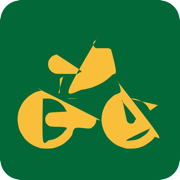
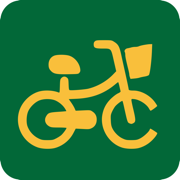
fix: logotip vectorial perfecte amb corbes de Bézier netes i sense artefactes

diff --git a/index.html b/index.html
@@ -38,7 +38,7 @@
   <!-- Custom CSS -->
   <link rel="manifest" href="manifest.json">
   <meta name="theme-color" content="#026838">
-  <link rel="stylesheet" href="style.css?v=16">
+  <link rel="stylesheet" href="style.css?v=17">
 </head>
 <body>
 
@@ -46,29 +46,22 @@
   <div id="splash-screen" class="splash-screen" aria-hidden="true">
     <div class="splash-content">
       <svg class="splash-logo-svg" viewBox="0 0 1024 409" width="1024" height="409">
-        <!-- Letters 'Gir' (slides in from bike to left) -->
+        <g fill="#F9BF3B" stroke="none">
         <g id="splash-gir" class="splash-anim-gir">
-          <path d="M 251.00 164.55 C 250.86 164.62, 250.35 164.26, 250.17 165.00 C 250.00 165.74, 249.97 165.33, 249.95 169.00 C 249.93 172.67, 249.73 183.89, 250.07 187.00 C 250.41 190.11, 247.84 187.54, 252.00 187.66 C 256.16 187.77, 270.76 187.78, 275.00 187.67 C 279.24 187.56, 277.11 190.83, 277.45 187.00 C 277.78 183.17, 281.41 168.44, 277.00 164.70 C 272.59 160.96, 255.33 164.57, 251.00 164.55 C 246.67 164.52, 251.14 164.47, 251.00 164.55 Z M 180.00 167.95 C 178.00 168.25, 171.33 168.99, 168.00 169.75 C 164.67 170.51, 162.33 171.54, 160.00 172.50 C 157.67 173.46, 156.50 174.01, 154.00 175.54 C 151.50 177.06, 148.06 179.05, 145.00 181.62 C 141.94 184.20, 138.35 187.60, 135.65 191.00 C 132.96 194.40, 130.68 198.17, 128.83 202.00 C 126.98 205.83, 125.57 210.33, 124.56 214.00 C 123.54 217.67, 123.05 220.67, 122.74 224.00 C 122.44 227.33, 122.56 231.00, 122.72 234.00 C 122.88 237.00, 122.92 238.50, 123.71 242.00 C 124.50 245.50, 125.92 251.17, 127.44 255.00 C 128.95 258.83, 131.18 262.33, 132.82 265.00 C 134.46 267.67, 134.74 268.44, 137.27 271.00 C 139.80 273.56, 144.87 278.05, 148.00 280.39 C 151.13 282.72, 152.72 283.50, 156.05 285.00 C 159.38 286.50, 163.34 288.34, 168.00 289.40 C 172.66 290.47, 178.83 291.23, 184.00 291.37 C 189.17 291.51, 194.67 290.90, 199.00 290.24 C 203.33 289.58, 206.50 288.56, 210.00 287.39 C 213.50 286.22, 216.50 285.00, 220.00 283.20 C 223.50 281.41, 228.27 278.49, 231.00 276.62 C 233.73 274.76, 235.50 281.27, 236.38 272.00 C 237.27 262.73, 236.73 229.62, 236.34 221.00 C 235.94 212.38, 242.56 220.36, 234.00 220.29 C 225.44 220.21, 193.25 220.42, 185.00 220.54 C 176.75 220.66, 184.50 217.26, 184.48 221.00 C 184.46 224.74, 180.63 239.30, 184.88 243.00 C 189.13 246.70, 205.66 243.05, 210.00 243.22 C 214.34 243.39, 210.77 241.37, 210.92 244.00 C 211.08 246.63, 211.08 256.21, 210.92 259.00 C 210.77 261.79, 210.51 260.24, 210.00 260.74 C 209.49 261.24, 209.53 261.22, 207.87 262.00 C 206.20 262.78, 202.81 264.54, 200.00 265.39 C 197.19 266.23, 193.67 266.78, 191.00 267.07 C 188.33 267.36, 185.83 283.66, 184.00 267.14 C 182.17 250.62, 180.67 184.48, 180.00 167.95 C 179.33 151.42, 182.00 167.65, 180.00 167.95 Z M 177.05 193.00 C 178.71 192.85, 183.68 192.01, 187.00 192.12 C 190.32 192.23, 194.00 192.87, 197.00 193.64 C 200.00 194.41, 202.00 195.05, 205.00 196.73 C 208.00 198.40, 213.06 202.65, 215.00 203.70 C 216.94 204.74, 214.90 204.95, 216.67 203.00 C 218.43 201.05, 232.19 193.67, 225.59 192.00 C 218.99 190.33, 185.14 192.83, 177.05 193.00 C 168.96 193.17, 175.40 193.15, 177.05 193.00 Z M 343.00 195.95 C 341.83 196.12, 338.49 196.11, 336.00 196.95 C 333.51 197.79, 330.18 199.49, 328.05 201.00 C 325.92 202.51, 324.88 203.84, 323.21 206.00 C 321.53 208.16, 314.70 215.63, 318.00 213.95 C 321.30 212.27, 338.83 198.95, 343.00 195.95 C 347.17 192.95, 344.17 195.78, 343.00 195.95 Z M 251.00 197.91 C 250.94 212.92, 250.45 272.78, 250.61 288.00 C 250.78 303.22, 247.77 289.01, 252.00 289.20 C 256.23 289.38, 271.87 289.30, 276.00 289.10 C 280.13 288.90, 276.65 303.02, 276.78 288.00 C 276.92 272.98, 276.94 214.06, 276.81 199.00 C 276.68 183.94, 280.30 197.81, 276.00 197.63 C 271.70 197.44, 255.17 197.86, 251.00 197.91 C 246.83 197.95, 251.06 182.89, 251.00 197.91 Z M 292.00 197.81 C 291.91 212.84, 291.31 272.78, 291.47 288.00 C 291.64 303.22, 288.81 288.97, 293.00 289.14 C 297.19 289.31, 312.51 289.19, 316.62 289.00 C 320.73 288.81, 317.47 294.00, 317.64 288.00 C 317.81 282.00, 317.28 261.00, 317.62 253.00 C 317.96 245.00, 318.80 243.24, 319.70 240.00 C 320.59 236.76, 321.62 235.49, 323.00 233.55 C 324.38 231.60, 326.00 229.84, 328.00 228.35 C 330.00 226.86, 331.95 225.50, 335.00 224.61 C 338.05 223.72, 344.38 227.60, 346.32 223.00 C 348.26 218.40, 355.69 201.20, 346.64 197.00 C 337.59 192.80, 301.11 197.67, 292.00 197.81 C 282.89 197.94, 292.09 182.77, 292.00 197.81 Z" fill="#F9BF3B" fill-rule="evenodd"/>
+          <path d="M 250.00 176.50 l 0.00 11.50 14.00 -0.00 14.00 -0.00 0.00 -11.50 0.00 -11.50 -14.00 -0.00 -14.00 -0.00 0.00 11.50 z"/><path d="M 174.30 169.10 c -6.90 1.20 -17.70 5.30 -23.50 9.00 -7.00 4.50 -17.10 15.80 -20.70 23.10 -5.10 10.40 -7.50 21.70 -6.80 32.40 1.90 28.20 18.30 48.80 44.70 56.00 8.80 2.40 26.90 2.40 36.50 -0.00 8.30 -2.10 21.70 -8.40 28.00 -13.20 l 4.50 -3.50 0.00 -25.90 0.00 -26.00 -26.00 -0.00 -26.00 -0.00 0.00 11.50 0.00 11.50 13.00 -0.00 13.00 -0.00 0.00 8.60 0.00 8.50 -5.40 2.50 c -14.10 6.50 -31.80 4.50 -42.60 -4.90 -15.00 -12.90 -16.00 -39.90 -2.10 -54.90 10.90 -11.90 28.40 -14.30 44.60 -6.10 2.80 1.30 5.90 3.30 7.10 4.40 1.10 1.00 2.50 1.90 3.10 1.90 1.40 -0.00 16.30 -17.70 16.30 -19.30 0.00 -1.80 -11.70 -9.40 -18.70 -12.10 -10.30 -4.00 -26.90 -5.50 -39.00 -3.50 z"/><path d="M 338.50 196.90 c -7.20 1.80 -14.50 7.50 -18.30 14.60 l -1.70 3.00 -0.30 -8.30 -0.30 -8.20 -12.90 -0.00 -13.00 -0.00 0.00 46.00 0.00 46.00 13.00 -0.00 13.00 -0.00 0.00 -18.30 c 0.00 -19.80 1.10 -28.90 3.90 -34.60 3.80 -7.30 10.90 -11.90 19.70 -12.80 l 5.40 -0.60 0.00 -13.80 0.00 -13.90 -2.70 0.10 c -1.60 0.10 -4.10 0.40 -5.80 0.80 z"/><path d="M 251.20 243.70 l 0.30 45.80 12.80 0.30 12.70 0.30 0.00 -46.10 0.00 -46.00 -13.00 -0.00 -13.00 -0.00 0.20 45.70 z"/>
         </g>
-        
-        <!-- Bike Frame, Saddle & Basket -->
         <g id="splash-bike-frame" class="splash-anim-frame">
-          <path d="M 492.00 99.62 C 491.33 100.11, 488.86 101.49, 488.00 102.55 C 487.14 103.61, 486.88 104.59, 486.85 106.00 C 486.81 107.41, 487.26 109.84, 487.79 111.00 C 488.31 112.16, 489.13 112.38, 490.00 112.93 C 490.87 113.49, 489.17 114.09, 493.00 114.33 C 496.83 114.57, 509.05 114.09, 513.00 114.37 C 516.95 114.65, 515.66 115.23, 516.70 116.00 C 517.75 116.77, 517.53 112.50, 519.28 119.00 C 521.02 125.50, 526.91 147.83, 527.19 155.00 C 527.46 162.17, 523.81 159.28, 520.95 162.00 C 518.09 164.72, 513.33 168.79, 510.00 171.32 C 506.67 173.85, 504.33 175.34, 501.00 177.17 C 497.67 179.01, 493.33 180.94, 490.00 182.32 C 486.67 183.71, 484.83 184.46, 481.00 185.47 C 477.17 186.48, 473.33 187.77, 467.00 188.37 C 460.67 188.98, 438.83 203.89, 443.00 189.10 C 447.17 174.31, 483.83 114.53, 492.00 99.62 C 500.17 84.70, 492.67 99.13, 492.00 99.62 Z M 422.00 125.85 C 421.33 125.97, 419.48 126.04, 418.00 126.57 C 416.52 127.09, 414.60 127.87, 413.10 129.00 C 411.60 130.13, 410.06 131.84, 409.00 133.34 C 407.94 134.84, 407.24 136.39, 406.77 138.00 C 406.30 139.61, 406.18 141.33, 406.19 143.00 C 406.20 144.67, 406.30 146.33, 406.83 148.00 C 407.36 149.67, 408.34 151.57, 409.36 153.00 C 410.39 154.43, 411.56 155.56, 413.00 156.61 C 414.44 157.66, 416.17 158.71, 418.00 159.30 C 419.83 159.89, 417.67 159.98, 424.00 160.13 C 430.33 160.29, 450.00 160.34, 456.00 160.22 C 462.00 160.09, 459.00 159.80, 460.00 159.39 C 461.00 158.97, 461.50 158.74, 462.00 157.73 C 462.50 156.71, 469.67 158.62, 463.00 153.31 C 456.33 148.00, 428.83 130.43, 422.00 125.85 C 415.17 121.27, 422.67 125.73, 422.00 125.85 Z M 433.00 164.95 C 432.20 165.46, 429.16 166.99, 428.20 168.00 C 427.23 169.01, 427.37 166.83, 427.19 171.00 C 427.00 175.17, 427.28 189.21, 427.08 193.00 C 426.88 196.79, 426.35 193.67, 426.00 193.74 C 425.65 193.81, 423.83 198.23, 425.00 193.43 C 426.17 188.63, 431.67 169.70, 433.00 164.95 C 434.33 160.20, 433.80 164.44, 433.00 164.95 Z M 442.38 205.00 C 442.65 204.86, 441.05 204.31, 444.00 204.15 C 446.95 203.98, 460.32 203.86, 460.05 204.00 C 459.78 204.14, 445.32 204.83, 442.38 205.00 C 439.43 205.17, 442.11 205.14, 442.38 205.00 Z M 553.88 205.00 C 554.07 204.88, 553.81 204.33, 555.00 204.28 C 556.19 204.23, 558.05 203.91, 561.00 204.70 C 563.95 205.48, 569.25 207.12, 572.70 209.00 C 576.16 210.88, 579.19 213.33, 581.72 216.00 C 584.25 218.67, 586.68 223.44, 587.89 225.00 C 589.11 226.56, 586.87 226.72, 589.00 225.39 C 591.13 224.05, 598.82 218.65, 600.65 217.00 C 602.48 215.35, 607.79 217.49, 600.00 215.49 C 592.21 213.49, 561.57 206.75, 553.88 205.00 C 546.20 203.25, 553.70 205.12, 553.88 205.00 Z M 588.00 257.76 C 587.50 258.62, 586.33 261.14, 585.00 262.94 C 583.67 264.73, 582.43 266.51, 580.00 268.52 C 577.57 270.53, 572.90 273.55, 570.40 275.00 C 567.90 276.45, 566.90 276.66, 565.00 277.24 C 563.10 277.83, 562.00 278.40, 559.00 278.53 C 556.00 278.66, 542.17 281.51, 547.00 278.05 C 551.83 274.59, 581.17 261.14, 588.00 257.76 C 594.83 254.37, 588.50 256.89, 588.00 257.76 Z" fill="#F9BF3B" fill-rule="evenodd"/>
+          <path d="M 489.90 101.90 c -1.70 1.30 -2.30 2.90 -2.30 5.60 0.00 6.30 2.50 7.50 15.90 7.50 15.70 -0.00 14.90 -0.80 20.10 22.20 l 4.20 18.30 -6.10 6.30 c -11.50 11.70 -26.80 20.50 -43.20 24.70 -6.20 1.60 -29.70 3.50 -33.80 2.70 -1.20 -0.30 -1.60 -2.30 -1.90 -10.20 -0.30 -8.90 -0.50 -10.00 -2.70 -11.90 -3.30 -2.90 -7.20 -2.70 -10.20 0.50 -2.20 2.40 -2.40 3.50 -2.70 14.60 -0.30 10.70 -0.50 11.90 -2.00 11.30 -10.20 -4.10 -25.90 -4.80 -36.30 -1.50 -30.10 9.30 -45.20 44.00 -31.40 72.50 8.90 18.50 26.10 29.40 46.10 29.50 5.00 -0.00 10.70 -0.30 12.50 -0.70 3.10 -0.60 2.90 -0.80 -3.60 -2.00 -15.00 -2.70 -26.80 -11.10 -36.80 -26.00 -6.30 -9.50 -7.90 -14.20 -7.80 -23.40 0.00 -10.10 2.40 -16.20 10.90 -27.30 9.20 -12.20 20.20 -19.50 33.00 -21.90 l 3.20 -0.70 0.00 7.00 0.00 6.90 5.30 2.40 c 6.50 3.00 13.50 9.20 16.50 14.50 l 2.20 4.00 -6.20 0.60 c -3.50 0.40 -8.80 0.70 -11.80 0.90 l -5.50 0.20 -0.30 13.70 -0.30 13.80 26.60 -0.00 c 22.90 -0.00 26.50 0.20 26.50 1.50 0.00 1.20 1.30 1.50 6.10 1.50 11.90 -0.00 18.90 -6.40 18.90 -17.30 0.00 -6.20 -2.40 -10.80 -7.40 -14.10 -4.10 -2.80 -4.20 -2.80 -17.20 -2.20 l -13.00 0.60 -1.90 -4.30 c -1.00 -2.30 -3.70 -6.90 -6.10 -10.30 l -4.30 -6.10 13.70 -0.60 c 28.10 -1.30 49.20 -9.10 69.30 -25.80 2.60 -2.20 4.90 -3.90 5.20 -3.90 0.30 -0.00 1.30 3.30 2.20 7.20 0.90 4.00 1.80 8.00 2.10 8.90 0.30 1.10 -1.10 2.30 -4.80 4.00 -2.90 1.30 -8.30 5.50 -12.50 9.50 -8.70 8.50 -13.60 17.90 -15.50 29.80 -3.80 24.70 12.10 50.20 35.90 57.60 8.20 2.50 22.50 2.70 30.40 0.40 8.30 -2.50 16.50 -7.20 22.50 -13.20 5.40 -5.30 9.40 -10.70 9.40 -12.70 0.00 -0.60 -2.30 -2.50 -4.90 -4.30 l -4.90 -3.30 -6.40 6.30 c -4.00 3.90 -9.00 7.60 -13.30 9.80 -6.90 3.50 -7.10 3.50 -20.00 3.50 -13.00 -0.00 -13.00 -0.00 -20.90 -3.80 -9.70 -4.60 -18.10 -12.80 -22.50 -21.90 l -3.00 -6.30 6.50 -0.30 6.40 -0.30 0.00 -6.40 c 0.00 -7.10 2.60 -14.10 7.60 -20.80 3.30 -4.30 12.50 -11.10 13.40 -10.00 0.40 0.50 2.10 7.40 3.90 15.40 5.10 23.20 4.50 21.90 9.10 21.90 l 4.00 -0.00 -0.10 -27.90 -0.10 -27.90 -2.90 -0.60 c -1.80 -0.30 -2.90 -1.20 -2.90 -2.20 0.00 -0.90 -2.10 -10.90 -4.60 -22.30 -5.50 -24.80 -6.90 -30.90 -8.40 -38.10 -3.40 -15.70 -5.30 -19.30 -12.90 -24.10 -4.40 -2.80 -4.80 -2.90 -18.20 -2.90 -11.90 -0.00 -14.00 0.20 -16.00 1.90 z"/><path d="M 577.40 108.50 c -3.90 0.70 -8.00 1.80 -9.20 2.40 -1.10 0.60 -4.00 1.10 -6.30 1.10 -2.30 -0.00 -5.60 0.40 -7.30 1.00 -1.70 0.50 -4.70 1.20 -6.60 1.50 -3.80 0.60 -6.40 4.20 -4.90 6.70 0.50 0.70 0.90 3.00 0.90 5.10 0.00 3.50 1.70 11.40 5.70 27.20 0.80 3.30 1.50 6.90 1.50 8.00 0.00 1.10 0.50 3.30 1.10 4.90 l 1.00 2.80 7.00 -0.70 c 3.80 -0.30 8.00 -1.10 9.30 -1.60 1.40 -0.50 5.20 -1.30 8.60 -1.90 3.50 -0.50 7.00 -1.70 7.90 -2.70 2.00 -2.00 4.90 -25.10 5.60 -44.60 l 0.40 -10.70 -3.80 0.10 c -2.10 -0.00 -7.00 0.70 -10.90 1.40 z"/><path d="M 417.50 127.50 c -6.60 2.40 -10.50 8.30 -10.50 16.00 0.00 5.70 1.10 8.40 5.00 12.20 4.70 4.60 10.30 5.50 30.80 5.10 17.10 -0.30 17.40 -0.30 19.40 -2.80 1.60 -2.00 1.80 -3.30 1.30 -6.90 -1.60 -10.40 -9.80 -20.30 -19.60 -23.40 -6.40 -2.10 -20.80 -2.20 -26.40 -0.20 z"/><path d="M 591.90 206.30 c 1.60 2.60 3.50 6.80 4.20 9.20 1.40 4.80 1.60 5.00 3.90 3.50 1.30 -0.80 1.30 -1.30 -0.30 -4.30 -1.10 -1.90 -3.90 -5.70 -6.30 -8.30 l -4.40 -4.90 2.90 4.80 z"/>
         </g>
-        
-        <!-- Rear Wheel (spins 360deg around cx=419px, cy=241.5px) -->
         <g id="splash-wheel-rear" class="splash-anim-wheel-rear">
-          <path d="M 395.00 189.79 C 393.17 190.28, 387.50 191.24, 384.00 192.70 C 380.50 194.16, 376.50 196.92, 374.00 198.55 C 371.50 200.17, 370.67 200.93, 369.00 202.44 C 367.33 203.96, 365.59 205.69, 364.00 207.62 C 362.41 209.54, 361.03 211.27, 359.47 214.00 C 357.90 216.73, 355.75 221.17, 354.61 224.00 C 353.47 226.83, 353.11 228.33, 352.62 231.00 C 352.14 233.67, 351.79 237.33, 351.70 240.00 C 351.60 242.67, 351.72 244.33, 352.06 247.00 C 352.40 249.67, 352.96 253.17, 353.75 256.00 C 354.53 258.83, 355.10 260.83, 356.77 264.00 C 358.45 267.17, 361.94 272.42, 363.81 275.00 C 365.68 277.58, 365.97 277.70, 368.00 279.50 C 370.03 281.30, 372.83 283.87, 376.00 285.79 C 379.17 287.72, 383.67 289.80, 387.00 291.05 C 390.33 292.30, 392.17 292.87, 396.00 293.28 C 399.83 293.69, 406.00 293.82, 410.00 293.53 C 414.00 293.23, 416.33 292.72, 420.00 291.50 C 423.67 290.28, 428.33 288.42, 432.00 286.18 C 435.67 283.94, 439.25 280.75, 442.00 278.05 C 444.75 275.35, 446.34 273.50, 448.51 270.00 C 450.68 266.50, 449.92 259.08, 455.00 257.05 C 460.08 255.02, 473.90 258.17, 479.00 257.83 C 484.10 257.49, 483.84 256.14, 485.58 255.00 C 487.32 253.86, 488.43 252.33, 489.41 251.00 C 490.39 249.67, 490.98 248.50, 491.46 247.00 C 491.95 245.50, 492.24 243.37, 492.33 242.00 C 492.42 240.63, 508.22 247.46, 492.00 238.76 C 475.78 230.06, 411.17 197.95, 395.00 189.79 C 378.83 181.63, 396.83 189.31, 395.00 189.79 Z M 396.75 205.00 C 397.12 204.89, 396.62 204.42, 399.00 204.37 C 401.38 204.31, 407.00 203.92, 411.00 204.68 C 415.00 205.44, 419.67 207.19, 423.00 208.93 C 426.33 210.67, 428.99 213.27, 431.00 215.12 C 433.01 216.96, 433.80 218.19, 435.05 220.00 C 436.30 221.81, 438.00 224.75, 438.49 226.00 C 438.99 227.25, 442.58 226.95, 438.00 227.50 C 433.42 228.05, 416.47 228.55, 411.00 229.30 C 405.53 230.05, 406.67 230.79, 405.17 232.00 C 403.67 233.21, 402.70 235.08, 402.00 236.58 C 401.30 238.08, 400.93 239.26, 400.94 241.00 C 400.95 242.74, 401.53 245.50, 402.06 247.00 C 402.59 248.50, 403.14 248.96, 404.13 250.00 C 405.12 251.04, 406.52 252.50, 408.00 253.22 C 409.48 253.95, 407.92 253.88, 413.00 254.35 C 418.08 254.81, 434.79 254.56, 438.46 256.00 C 442.14 257.44, 436.31 261.04, 435.07 263.00 C 433.82 264.96, 433.01 265.97, 431.00 267.75 C 428.99 269.53, 425.50 272.14, 423.00 273.69 C 420.50 275.24, 418.50 276.24, 416.00 277.05 C 413.50 277.86, 411.17 278.39, 408.00 278.56 C 404.83 278.72, 398.88 290.31, 397.00 278.05 C 395.12 265.79, 396.79 217.18, 396.75 205.00 C 396.70 192.82, 396.37 205.11, 396.75 205.00 Z" fill="#F9BF3B" fill-rule="evenodd"/>
+          <path d="M 435.00 190.90 c 0.00 0.60 -1.80 1.10 -3.90 1.10 -2.20 -0.00 -4.10 0.50 -4.30 1.10 -0.30 0.90 -0.90 0.90 -2.50 -0.00 -1.30 -0.60 -6.90 -1.10 -13.30 -1.10 -10.00 -0.00 -11.60 0.30 -16.30 2.60 -2.90 1.50 -8.40 5.90 -12.30 9.80 -10.00 10.00 -15.50 22.20 -15.20 33.60 0.10 4.40 0.10 4.40 0.80 -1.20 1.10 -8.30 5.10 -15.80 12.10 -22.20 4.80 -4.50 7.30 -6.00 13.00 -7.70 12.90 -3.90 25.60 -1.50 35.70 6.80 4.10 3.30 10.70 12.10 9.80 13.00 -0.20 0.20 -6.80 0.80 -14.70 1.30 -16.00 1.10 -17.80 1.80 -21.50 8.40 -3.60 6.30 -1.20 13.70 5.70 17.50 3.20 1.80 5.40 2.10 17.30 2.10 7.50 -0.00 13.60 0.40 13.60 0.80 0.00 1.80 -6.40 10.40 -9.80 13.20 -2.00 1.60 -6.10 4.20 -9.20 5.70 -4.80 2.50 -6.60 2.80 -15.00 2.80 -8.20 -0.00 -10.30 -0.40 -15.20 -2.70 -11.10 -5.20 -19.70 -16.00 -21.80 -27.40 -0.90 -4.80 -0.90 -4.80 -0.50 1.20 0.50 7.00 3.20 14.70 7.70 21.60 7.30 11.50 24.10 22.80 33.80 22.80 16.00 -0.00 34.40 -12.30 42.60 -28.60 l 3.90 -7.60 8.20 0.70 8.20 0.70 0.70 -2.90 c 0.30 -1.50 0.80 -3.60 1.10 -4.60 0.40 -1.50 -0.60 -1.70 -11.10 -1.70 l -11.60 -0.00 0.00 -16.80 0.00 -16.90 -4.10 -5.60 -4.00 -5.70 4.00 -0.00 4.10 -0.00 0.00 -4.00 c 0.00 -3.80 -0.20 -4.10 -5.70 -6.90 -7.40 -3.60 -10.30 -4.50 -10.30 -3.20 z"/>
         </g>
-        
-        <!-- Front Wheel (spins 360deg around cx=550px, cy=226px) -->
         <g id="splash-wheel-front" class="splash-anim-wheel-front">
-          <path d="M 530.45 174.00 C 530.58 174.00, 530.94 173.64, 531.19 174.00 C 531.45 174.36, 531.29 173.15, 532.00 176.15 C 532.71 179.15, 536.79 188.27, 535.46 192.00 C 534.12 195.73, 527.62 195.88, 524.00 198.54 C 520.38 201.21, 516.32 205.09, 513.71 208.00 C 511.09 210.91, 509.99 212.83, 508.32 216.00 C 506.65 219.17, 504.78 223.50, 503.70 227.00 C 502.62 230.50, 502.14 233.67, 501.83 237.00 C 501.52 240.33, 501.35 243.33, 501.83 247.00 C 502.31 250.67, 503.22 255.00, 504.70 259.00 C 506.17 263.00, 508.72 267.83, 510.69 271.00 C 512.67 274.17, 514.50 275.90, 516.56 278.00 C 518.61 280.10, 520.59 281.87, 523.00 283.61 C 525.41 285.35, 527.50 286.88, 531.00 288.46 C 534.50 290.03, 540.83 292.19, 544.00 293.06 C 547.17 293.94, 547.00 293.66, 550.00 293.70 C 553.00 293.74, 558.50 293.73, 562.00 293.31 C 565.50 292.90, 568.00 292.26, 571.00 291.23 C 574.00 290.21, 576.67 289.16, 580.00 287.16 C 583.33 285.15, 588.27 281.58, 591.00 279.22 C 593.73 276.86, 594.77 275.20, 596.40 273.00 C 598.02 270.80, 611.75 282.50, 600.76 266.00 C 589.77 249.50, 542.17 189.33, 530.45 174.00 C 518.73 158.67, 530.33 174.00, 530.45 174.00 Z M 537.47 208.00 C 537.71 208.00, 538.65 207.83, 538.95 208.00 C 539.25 208.17, 538.16 203.83, 539.28 209.00 C 540.40 214.17, 544.21 232.83, 545.66 239.00 C 547.10 245.17, 546.89 244.38, 547.95 246.00 C 549.01 247.62, 550.66 248.23, 552.00 248.69 C 553.34 249.16, 554.83 248.99, 556.00 248.79 C 557.17 248.59, 558.09 248.44, 559.00 247.48 C 559.91 246.51, 561.15 244.73, 561.49 243.00 C 561.82 241.27, 565.00 242.90, 561.00 237.07 C 557.00 231.24, 541.39 212.85, 537.47 208.00 C 533.54 203.15, 537.22 208.00, 537.47 208.00 Z" fill="#F9BF3B" fill-rule="evenodd"/>
+          <path d="M 539.80 180.70 c -1.60 0.40 -1.80 1.90 -1.80 12.40 l 0.00 11.90 -10.40 -0.00 -10.50 -0.00 -3.50 4.30 c -7.80 9.60 -12.70 26.00 -11.20 37.90 1.30 10.10 11.90 23.50 23.50 29.70 8.40 4.40 15.40 6.10 25.10 6.10 16.30 -0.00 30.60 -6.70 40.20 -18.70 l 2.90 -3.70 -2.80 -1.40 c -2.00 -1.10 -2.80 -1.20 -3.10 -0.30 -1.00 3.10 -8.60 11.10 -12.90 13.80 -8.10 4.90 -11.20 5.80 -20.80 5.80 -7.80 -0.00 -9.80 -0.40 -15.20 -2.90 -7.30 -3.30 -14.70 -10.70 -18.30 -18.10 -1.90 -3.90 -2.50 -7.00 -2.80 -14.50 -0.40 -8.50 -0.10 -10.10 2.10 -15.00 1.30 -3.00 3.80 -7.20 5.30 -9.30 3.30 -4.30 12.50 -11.10 13.40 -10.00 0.40 0.50 1.40 4.40 2.40 8.80 6.40 29.10 6.50 29.60 10.20 31.10 3.00 1.30 3.80 1.20 6.40 -0.10 5.20 -2.70 5.10 -5.40 -0.60 -29.10 -1.30 -5.60 -2.40 -11.20 -2.40 -12.40 0.00 -2.20 0.30 -2.20 5.20 -1.70 9.70 1.20 22.10 9.20 26.30 17.10 1.10 2.00 2.30 3.60 2.70 3.60 1.40 -0.00 11.70 -7.50 11.80 -8.60 0.00 -1.90 -8.50 -12.90 -11.80 -15.30 -2.60 -1.80 -4.40 -2.10 -13.10 -2.10 l -10.10 -0.00 0.00 -5.00 0.00 -5.00 -6.70 -0.00 c -3.80 -0.00 -7.30 -0.40 -7.90 -0.80 -0.60 -0.40 -1.50 -2.60 -1.90 -5.00 -0.70 -4.10 -0.80 -4.20 -4.30 -4.10 -2.10 0.10 -4.50 0.30 -5.40 0.60 z"/>
         </g>
-        
-        <!-- Letters 'leta' (slides in from bike to right) -->
         <g id="splash-leta" class="splash-anim-leta">
-          <path d="M 615.00 164.59 C 614.84 164.83, 614.21 145.43, 614.05 166.00 C 613.89 186.57, 613.72 267.47, 614.05 288.00 C 614.38 308.53, 611.84 288.97, 616.00 289.17 C 620.16 289.37, 634.96 289.56, 639.00 289.20 C 643.04 288.84, 640.02 307.53, 640.22 287.00 C 640.42 266.47, 640.24 186.26, 640.20 166.00 C 640.16 145.74, 644.20 165.67, 640.00 165.43 C 635.80 165.20, 619.17 164.73, 615.00 164.59 C 610.83 164.45, 615.16 164.36, 615.00 164.59 Z M 753.00 174.69 C 752.91 178.41, 752.63 193.18, 752.46 197.00 C 752.29 200.82, 753.69 197.44, 752.00 197.61 C 750.31 197.77, 744.00 194.60, 742.31 198.00 C 740.62 201.40, 741.74 214.32, 741.85 218.00 C 741.97 221.68, 741.48 219.76, 743.00 220.08 C 744.52 220.41, 749.40 219.80, 751.00 219.95 C 752.60 220.10, 752.34 213.49, 752.61 221.00 C 752.88 228.51, 752.29 255.67, 752.63 265.00 C 752.97 274.33, 753.96 274.33, 754.63 277.00 C 755.30 279.67, 755.77 279.69, 756.66 281.00 C 757.56 282.31, 758.94 283.84, 760.00 284.89 C 761.06 285.93, 761.67 286.51, 763.00 287.26 C 764.33 288.02, 766.33 288.90, 768.00 289.42 C 769.67 289.94, 770.50 290.20, 773.00 290.39 C 775.50 290.58, 780.00 290.73, 783.00 290.57 C 786.00 290.40, 788.33 290.12, 791.00 289.38 C 793.67 288.64, 797.58 286.86, 799.00 286.13 C 800.42 285.40, 799.42 288.35, 799.54 285.00 C 799.65 281.65, 799.76 269.34, 799.67 266.00 C 799.58 262.66, 800.45 264.71, 799.00 264.95 C 797.55 265.19, 793.67 267.10, 791.00 267.47 C 788.33 267.83, 789.33 282.60, 783.00 267.14 C 776.67 251.67, 758.00 190.10, 753.00 174.69 C 748.00 159.28, 753.09 170.97, 753.00 174.69 Z M 686.00 196.79 C 684.50 197.27, 679.99 198.33, 677.00 199.69 C 674.01 201.06, 670.58 203.16, 668.08 205.00 C 665.58 206.84, 663.89 208.58, 662.00 210.75 C 660.11 212.92, 658.30 215.29, 656.75 218.00 C 655.20 220.71, 653.72 224.00, 652.70 227.00 C 651.67 230.00, 651.00 232.67, 650.59 236.00 C 650.18 239.33, 650.08 243.50, 650.24 247.00 C 650.40 250.50, 650.85 254.00, 651.55 257.00 C 652.25 260.00, 653.04 262.17, 654.43 265.00 C 655.82 267.83, 657.98 271.46, 659.91 274.00 C 661.84 276.54, 663.56 278.23, 666.00 280.23 C 668.44 282.23, 671.24 284.36, 674.58 286.00 C 677.91 287.64, 682.76 289.20, 686.00 290.08 C 689.24 290.96, 691.17 291.10, 694.00 291.27 C 696.83 291.45, 699.83 291.48, 703.00 291.13 C 706.17 290.78, 710.33 289.86, 713.00 289.18 C 715.67 288.50, 716.67 288.21, 719.00 287.05 C 721.33 285.89, 724.70 283.90, 727.00 282.23 C 729.30 280.55, 731.52 278.37, 732.82 277.00 C 734.11 275.63, 742.58 287.37, 734.78 274.00 C 726.97 260.63, 694.13 209.65, 686.00 196.79 C 677.87 183.92, 687.50 196.30, 686.00 196.79 Z M 838.00 196.89 C 836.17 197.17, 830.67 197.75, 827.00 198.59 C 823.33 199.43, 818.49 201.03, 816.00 201.93 C 813.51 202.83, 812.61 202.99, 812.05 204.00 C 811.49 205.01, 811.69 204.83, 812.62 208.00 C 813.55 211.17, 816.57 220.41, 817.64 223.00 C 818.70 225.59, 816.61 224.07, 819.00 223.54 C 821.39 223.01, 828.33 220.57, 832.00 219.80 C 835.67 219.04, 838.50 219.07, 841.00 218.95 C 843.50 218.83, 845.00 218.84, 847.00 219.10 C 849.00 219.37, 851.05 219.72, 853.00 220.53 C 854.95 221.35, 857.51 223.09, 858.71 224.00 C 859.92 224.91, 859.58 224.67, 860.22 226.00 C 860.85 227.33, 862.12 230.33, 862.52 232.00 C 862.93 233.67, 862.74 235.19, 862.65 236.00 C 862.57 236.81, 862.44 236.80, 862.00 236.86 C 861.56 236.91, 864.00 242.98, 860.00 236.32 C 856.00 229.66, 841.67 203.46, 838.00 196.89 C 834.33 190.32, 839.83 196.61, 838.00 196.89 Z M 688.67 218.00 C 689.39 217.85, 691.28 217.22, 693.00 217.10 C 694.72 216.98, 697.33 217.08, 699.00 217.29 C 700.67 217.50, 701.89 217.91, 703.00 218.36 C 704.11 218.82, 704.28 218.73, 705.66 220.00 C 707.03 221.27, 709.87 223.83, 711.23 226.00 C 712.60 228.17, 713.36 231.33, 713.84 233.00 C 714.32 234.67, 720.42 235.49, 714.12 236.00 C 707.81 236.51, 680.24 239.05, 676.00 236.05 C 671.76 233.05, 686.55 221.01, 688.67 218.00 C 690.78 214.99, 687.94 218.15, 688.67 218.00 Z M 782.39 220.00 C 785.16 220.01, 796.07 220.22, 799.00 220.05 C 801.93 219.88, 802.72 219.01, 799.95 219.00 C 797.18 218.99, 785.31 219.83, 782.39 220.00 C 779.46 220.17, 779.62 219.99, 782.39 220.00 Z M 832.00 233.70 C 830.50 234.04, 825.83 234.78, 823.00 235.76 C 820.17 236.74, 817.17 238.21, 815.00 239.59 C 812.83 240.97, 811.51 242.31, 810.00 244.05 C 808.49 245.79, 806.98 247.51, 805.95 250.00 C 804.92 252.49, 804.18 256.17, 803.84 259.00 C 803.51 261.83, 803.82 265.00, 803.95 267.00 C 804.08 269.00, 804.14 269.50, 804.60 271.00 C 805.05 272.50, 805.59 274.17, 806.65 276.00 C 807.72 277.83, 809.11 280.10, 811.00 281.95 C 812.89 283.80, 815.83 285.85, 818.00 287.10 C 820.17 288.35, 821.67 288.86, 824.00 289.47 C 826.33 290.09, 829.50 290.58, 832.00 290.80 C 834.50 291.02, 836.50 291.03, 839.00 290.80 C 841.50 290.57, 844.35 290.23, 847.00 289.43 C 849.65 288.63, 852.43 287.55, 854.93 286.00 C 857.43 284.45, 860.65 279.60, 862.00 280.12 C 863.35 280.64, 858.79 287.64, 863.00 289.12 C 867.21 290.60, 883.14 298.35, 887.25 289.00 C 891.36 279.65, 896.87 242.22, 887.66 233.00 C 878.45 223.78, 841.28 233.59, 832.00 233.70 C 822.72 233.82, 833.50 233.36, 832.00 233.70 Z M 846.23 249.00 C 847.86 249.14, 853.20 249.25, 856.00 249.84 C 858.80 250.44, 861.79 251.38, 863.00 252.57 C 864.21 253.76, 863.46 255.26, 863.28 257.00 C 863.09 258.74, 862.61 261.33, 861.88 263.00 C 861.15 264.67, 860.40 265.66, 858.92 267.00 C 857.44 268.34, 854.99 270.11, 853.00 271.05 C 851.01 271.99, 849.50 272.40, 847.00 272.61 C 844.50 272.82, 838.13 276.26, 838.00 272.32 C 837.87 268.39, 844.86 252.89, 846.23 249.00 C 847.60 245.11, 844.60 248.86, 846.23 249.00 Z M 676.06 253.00 C 686.63 252.83, 739.48 252.00, 739.48 252.00 C 739.48 252.00, 686.63 252.83, 676.06 253.00 C 665.49 253.17, 665.49 253.17, 676.06 253.00 Z M 720.00 260.95 C 719.17 261.65, 717.00 263.86, 715.00 265.17 C 713.00 266.47, 710.00 267.92, 708.00 268.76 C 706.00 269.60, 705.33 269.98, 703.00 270.20 C 700.67 270.43, 691.17 271.66, 694.00 270.12 C 696.83 268.57, 715.67 262.48, 720.00 260.95 C 724.33 259.42, 720.83 260.25, 720.00 260.95 Z Z" fill="#F9BF3B" fill-rule="evenodd"/>
+          <path d="M 615.00 165.50 c 0.00 0.30 0.00 28.30 0.00 62.20 l 0.00 61.80 12.70 -0.00 12.80 -0.00 0.00 -62.00 0.00 -62.00 -12.70 -0.30 c -7.10 -0.10 -12.80 -0.00 -12.80 0.30 z"/><path d="M 753.00 186.40 l 0.00 11.50 -5.20 0.30 -5.30 0.30 0.00 11.00 0.00 11.00 5.30 0.30 5.20 0.30 0.00 25.20 c 0.10 26.70 0.50 29.30 5.10 36.20 3.70 5.40 9.80 7.90 20.10 8.30 6.90 0.30 10.00 -0.00 15.30 -1.80 l 6.50 -2.20 0.00 -10.80 0.00 -10.90 -4.10 1.40 c -5.80 2.10 -11.20 1.90 -14.00 -0.40 -2.40 -1.90 -2.40 -2.20 -2.70 -23.50 l -0.30 -21.50 10.80 -0.30 10.80 -0.30 0.00 -11.00 0.00 -11.00 -10.70 -0.30 -10.80 -0.30 0.00 -11.40 0.00 -11.50 -13.00 -0.00 -13.00 -0.00 0.00 11.40 z"/><path d="M 686.50 197.40 c -9.20 2.10 -15.40 5.40 -21.60 11.60 -9.90 9.80 -13.90 20.30 -13.90 36.30 0.00 8.60 0.40 10.80 3.10 17.80 8.80 22.90 34.90 34.10 60.70 26.00 8.60 -2.60 20.70 -11.60 20.00 -14.70 -0.20 -0.60 -3.40 -3.80 -7.20 -7.20 l -6.80 -6.00 -4.40 3.30 c -8.40 6.40 -20.40 8.20 -28.20 4.10 -5.20 -2.80 -11.20 -10.60 -11.20 -14.70 0.00 -0.50 12.70 -0.90 31.60 -0.90 l 31.70 -0.00 -0.60 -10.80 c -0.70 -13.00 -3.20 -20.90 -9.20 -29.10 -2.40 -3.30 -6.40 -7.30 -8.90 -9.10 -9.50 -6.50 -23.70 -9.20 -35.10 -6.60 z m 17.30 22.00 c 4.20 2.20 7.80 6.70 9.50 11.80 0.80 2.50 1.30 4.90 0.90 5.20 -0.70 0.80 -36.70 0.80 -37.50 -0.00 -0.90 -0.90 2.10 -8.40 4.70 -11.90 1.40 -1.80 4.00 -3.90 5.80 -4.80 4.10 -2.00 13.00 -2.20 16.60 -0.30 z"/><path d="M 829.00 199.00 c -8.70 1.80 -17.00 4.70 -17.00 5.90 0.00 0.30 1.40 4.80 3.20 9.90 3.50 10.40 2.30 9.80 12.80 6.80 3.00 -0.90 9.20 -1.60 13.70 -1.70 9.30 -0.10 16.00 2.20 18.80 6.50 1.60 2.40 3.30 10.60 2.20 10.60 -0.30 -0.00 -3.40 -0.70 -6.90 -1.60 -9.00 -2.30 -26.10 -1.50 -34.20 1.60 -7.30 2.80 -14.00 9.30 -15.80 15.30 -0.70 2.30 -1.30 7.30 -1.30 11.20 0.00 8.50 3.60 16.80 9.00 21.00 11.80 8.90 34.20 8.60 45.50 -0.70 l 3.50 -2.90 0.30 4.60 0.30 4.50 12.50 -0.00 12.50 -0.00 -0.30 -33.80 -0.30 -33.70 -2.60 -5.60 c -2.90 -6.20 -8.50 -12.10 -14.10 -15.00 -9.80 -5.00 -26.70 -6.20 -41.80 -2.90 z m 31.00 52.60 c 2.40 1.00 4.00 2.30 4.00 3.30 -0.10 7.70 -5.20 14.90 -11.90 17.00 -5.40 1.60 -12.70 1.40 -16.60 -0.50 -8.40 -3.90 -7.80 -15.50 1.00 -19.50 5.20 -2.40 17.80 -2.50 23.50 -0.30 z"/>
+        </g>
         </g>
       </svg>
     </div>
@@ -398,6 +391,6 @@
   <!-- Leaflet Rotate Plugin (Suport rotació lliure del mapa) -->
   <script src="leaflet-rotate.js"></script>
   <!-- Application JS -->
-  <script src="app.js?v=16"></script>
+  <script src="app.js?v=17"></script>
 </body>
 </html>

diff --git a/style.css b/style.css
@@ -88,13 +88,13 @@
 
 .splash-anim-wheel-rear {
   transform-box: view-box;
-  transform-origin: 419px 241.5px;
+  transform-origin: 420px 241.5px;
   animation: spinWheelRear 0.55s cubic-bezier(0.4, 0, 0.2, 1) 0.2s forwards;
 }
 
 .splash-anim-wheel-front {
   transform-box: view-box;
-  transform-origin: 550px 226px;
+  transform-origin: 550.5px 231px;
   animation: spinWheelFront 0.55s cubic-bezier(0.4, 0, 0.2, 1) 0.2s forwards;
 }
 

diff --git a/sw.js b/sw.js
@@ -1,5 +1,5 @@
 // Girocleta Service Worker for PWA, Offline Support & Push Notifications
-const CACHE_NAME = 'girocleta-v16';
+const CACHE_NAME = 'girocleta-v17';
 const ASSETS_TO_CACHE = [
   './',
   './index.html',
